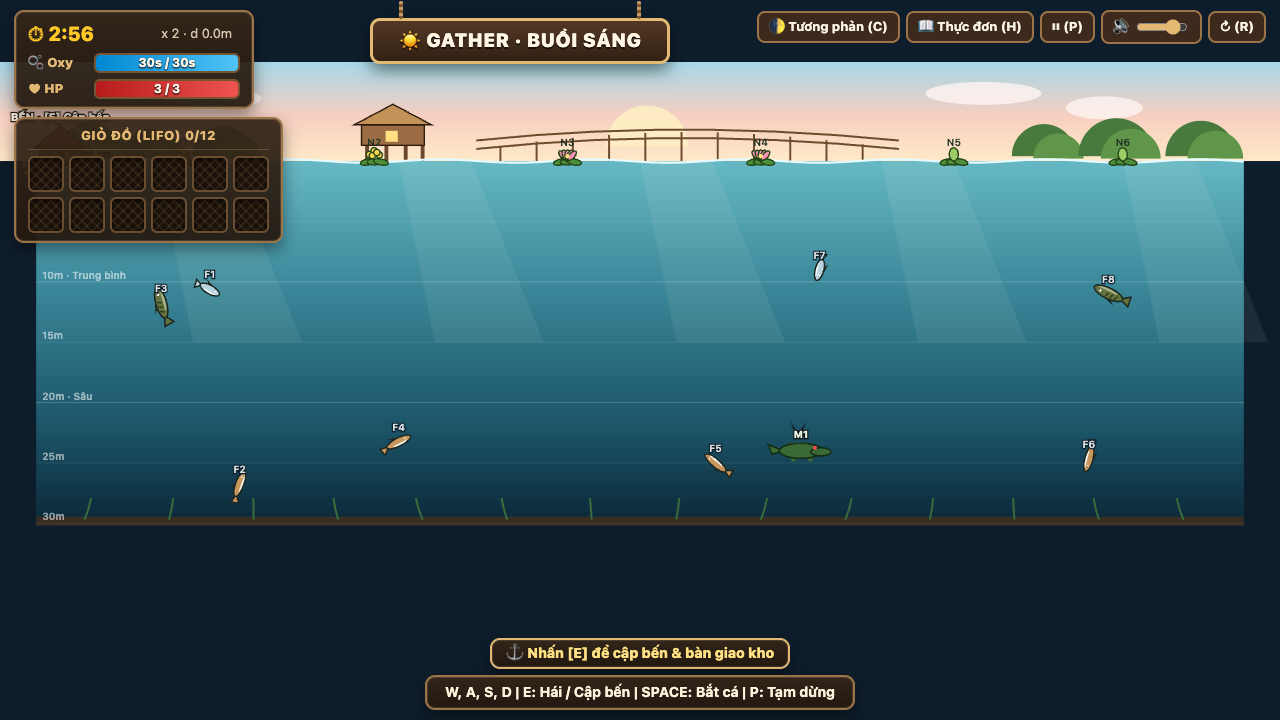
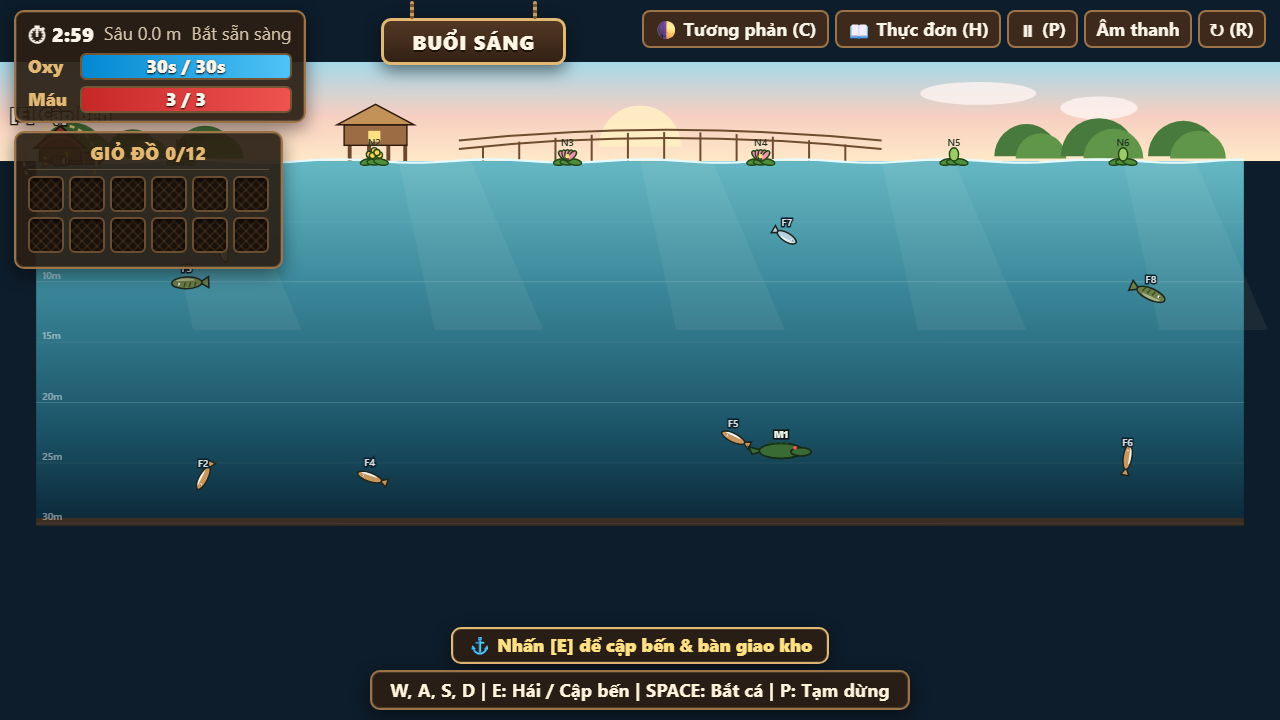
Record Phase 4 benchmark, browser checks and regression evidence

diff --git a/docs/verification/phase-4.md b/docs/verification/phase-4.md
@@ -1,27 +1,20 @@
-# Ma trận truy vết Phase 4 · QA (TV6)
+# Ma trận kiểm chứng Phase 4
 
-> Nguồn: TICKET-04 "Phát hành v1.0.0", Test Contract v1.3. Test: `tests/test_qa_p4.py` (17 test; 5 test leaderboard chỉ chạy khi khai mở rộng), `tests/test_qa_ext.py` (burn, 6 test).
-> Lệnh: `PYTHONPATH=tests:. python3 -m unittest discover -s tests -v`. Kết quả: ✅ đạt · ❌ chưa đạt · 🖐 kiểm tay · — không làm.
-> Bằng chứng đo trên working tree trước commit (contract 1.3): [test-run-qa.txt](../proof/phase-4/test-run-qa.txt) 330 test, OK (5 skip). **Chạy lại toàn bộ lệnh và bench 30 s trên commit gắn tag `phase-4` / Release v1.0.0 rồi thay dòng đầu các file bằng chứng.**
+Yêu cầu lấy từ TICKET-04 và Test Contract v1.3. Các bằng chứng dưới đây thuộc nội dung ứng dụng của bản bàn giao. Manifest giữ gameplay, kho và JSONL của v1.2.
 
-| AC | Yêu cầu (TICKET-04) | Cách kiểm | Bằng chứng | Kết quả |
-|---|---|---|---|---|
-| AC-P4-01 | `contract_version: "1.3"`, `bench_cmd`, `soak_cmd` ở gốc; gameplay/tuning/kho/JSONL theo v1.2 | `test_qa_p4.Manifest` | `game.contract.json` | ✅ |
-| AC-P4-02 | Soak `--seed 7 --days 10`: đúng 5 trường, `days_completed = days = 10`, `crashes = 0`, `results` theo Ngày, `score` đúng công thức, tất định (bỏ `duration_s`) | `test_qa_p4.Soak` | [soak.json](../proof/phase-4/soak.json) | ✅ |
-| AC-P4-03 | Bench `--seed 42 --duration 30`: đúng 5 trường, `avg_fps = frames / measured_s`, `p1_low_fps` 1% khung chậm nhất, `load_ms` | `test_qa_p4.Bench` (3 s) + chạy 30 s | [bench.json](../proof/phase-4/bench.json), [bench-scene.png](../proof/phase-4/bench-scene.png) (khung 1280×720 của cảnh đo) | ✅ |
-| AC-P4-03b | Báo cáo mốc: avg ≥ 60, 1% low ≥ 30, load ≤ 10 s | đọc `bench.json` 30 s | `{"avg_fps":60.002,"p1_low_fps":59.524,"frames":1801,"measured_s":30.016,"load_ms":1471.4}` | ✅ đạt cả 3 mốc (Chrome headless, khóa 60 Hz) |
-| AC-P4-04 | README: ≤ 3 lệnh từ clone sạch, môi trường, điều khiển, lệnh test/headless/bench/soak | `test_qa_p4.ReleaseDocs` + chạy bản sạch (chỉ file theo git) | lệnh 3 README mở máy chủ, `/state` trả `day/gather`; test trong bản sạch OK | ✅ |
-| AC-P4-05 | `CHANGELOG.md` theo từng phase; `CREDITS.md`, `LICENSE` | `test_qa_p4.ReleaseDocs` | `CHANGELOG.md`, `LICENSE` (MIT), `CREDITS.md` | ✅ |
-| AC-P4-06 | Cảnh báo chữ/biểu tượng: thủy quái gần, oxy sắp hết, khách sắp giận; chế độ tương phản cao; chơi thử cả 3 ở chế độ đó | 🖐 `python3 -m chonoi.live --mode day --days 1`, nhấn C | `docs/proof/phase-4/warn-*.png` (cần chụp) | 🖐 đã có trong giao diện (TV5): `Thủy quái!` + viền tím, `Hết hơi!`, `😠 Khách sắp giận!`, nút/phím C; **chưa chụp ảnh chơi thử** |
-| AC-P4-07 | GitHub Release v1.0.0 + bản đóng gói + release notes; tag `phase-4` và Release cùng commit trên `main` | 🖐 trang Release | [release-notes-v1.0.0.md](../release-notes-v1.0.0.md), `git archive` trong đó | 🖐 chờ merge + gắn tag + tạo Release |
-| AC-P4-08 | Regression P1–P3 còn hiệu lực ở v1.3 | toàn bộ `tests/` | [test-run-qa.txt](../proof/phase-4/test-run-qa.txt) | ✅ |
-| AC-P4-09 | Retro rà hành động P2, một lỗi AI và cách xác minh; `docs/members/<handle>.md` đủ người | 🖐 đọc tay | `docs/retro.md`, `docs/members/` | 🖐 mỗi người tự viết |
-| Mở rộng burn | Cháy món: đúng 1.200 tick vẫn bưng, quá thì cháy trước tương tác, giữ lại tươi nhất / `unfulfillable`, theo id bếp | `test_qa_ext.Burn` (6) | `extensions: ["burn"]`, `burn_s: 20` | ✅ |
-| Mở rộng audio | Âm lượng Master/Music/SFX lưu giữa các lần mở (không có mã contract) | 🖐 chỉnh, tải lại trang | ảnh chụp | 🖐 |
-| Mở rộng khác | leaderboard, phụ đề SFX | `test_qa_p4.Leaderboard` (tự bật khi khai) | — | — không làm |
+| AC | Yêu cầu | Kiểm chứng | Kết quả |
+|---|---|---|---|
+| AC-P4-01 | Manifest v1.3 khai `bench_cmd` và `soak_cmd` | `test_qa_p4.Manifest` và `game.contract.json` | Đạt |
+| AC-P4-02 | Soak seed 7, 10 Ngày, 0 crash. Kết quả lặp theo seed khi bỏ thời gian chạy | [Hai lượt soak](../proof/phase-4/soak.txt), [JSON](../proof/phase-4/soak.json) | Đạt |
+| AC-P4-03 | Render cảnh lặn seed 42 ở 1280×720, làm nóng 3 s, đo 30 s và xuất đúng năm trường | `test_qa_p4.Bench`, [JSON đo](../proof/phase-4/bench.json), [cảnh đo](../proof/phase-4/bench-scene.png) | Đạt |
+| AC-P4-03b | Mốc báo cáo avg ≥ 60 FPS, 1% low ≥ 30 FPS, load ≤ 10 s | Bench ở trên | avg 55.15 FPS (dưới mốc) · 1% low 13.75 FPS (dưới mốc) · tải 1.71 s (đạt) (Chrome 157 headless trên Windows) |
+| AC-P4-04 | Mở giao diện từ checkout sạch trong ba lệnh README. Có yêu cầu môi trường, điều khiển, test/headless/bench/soak | `test_qa_p4.ReleaseDocs`, smoke README trên Ubuntu CI, [smoke ZIP](../proof/phase-4/package.txt) | Đạt |
+| AC-P4-05 | CHANGELOG theo phase, ghi chú phát hành, credits và giấy phép | [CHANGELOG](../../CHANGELOG.md), [ghi chú phát hành](../release-notes-v1.0.0.md), [CREDITS](../../CREDITS.md), [MIT](../../LICENSE) | Đạt |
+| AC-P4-06 | Đủ ba cảnh báo có chữ và kiểm ở chế độ tương phản cao | [Chrome và ảnh](../proof/phase-4/web-ui.md) | Đạt |
+| AC-P4-07 | Tag `phase-4` và Release `v1.0.0` cùng commit trên `main`, có ZIP chạy được và notes | [Tag Phase 4](https://github.com/Ama2352/K5-L3B-LAB-Day12-AI-SDLC-Banana/tree/phase-4), [Release](https://github.com/Ama2352/K5-L3B-LAB-Day12-AI-SDLC-Banana/releases/tag/v1.0.0) | Bàn giao sau hạn 3:00 của lab |
+| AC-P4-08 | Hồi quy P1–P3 còn hiệu lực, gồm hai biên độ tươi (29.999 và 30.008), kho khớp và vòng ngày hoàn tất | [Regression](../proof/phase-4/test-run-qa.txt), [bàn giao kho và một ngày headless](../proof/phase-4/handoff.txt) | 332 đạt, 5 bỏ qua có chủ đích |
+| AC-P4-09 | Rà hành động retro P2, ghi lỗi AI đã kiểm và phản tư của mỗi người | [Retro](../retro.md), [đóng góp theo handle](../members/), [nhật ký AI](../ai-usage-log.md), [làm rõ](../clarify.md), [standup](../standup.md) | Có retro và bằng chứng sáu người. Phần tự phản tư của Sang và Quyên còn chờ chính hai bạn bổ sung. |
+| Mở rộng | Cháy món (`burn`), phụ đề SFX | `test_qa_ext.Burn` và [phụ đề lúc tắt âm](../proof/phase-4/web-ui.md) | Đạt |
+| Sáng tạo | Master, Nhạc và Hiệu ứng có thanh riêng và lưu qua tải lại trang | [Kiểm âm lượng](../proof/phase-4/web-ui.md) | Đạt |
 
-## Thay đổi Phase 4 (TV6, theo yêu cầu nhóm)
-- `chonoi/bench.py` (mới) + bộ đo trong `chonoi/web/index.html` (chỉ bật khi `?bench=1`).
-- `game.contract.json`: `1.3`, `bench_cmd`, `soak_cmd` (soak của TV2), `extensions: ["burn"]`, `burn_s: 20`.
-- `chonoi/contract.py`: nhận `burn_s` hữu hạn khi khai `burn` (trước luôn bắt `null` theo Phase 1).
-- README, `CHANGELOG.md` theo phase, `LICENSE`, `docs/release-notes-v1.0.0.md`; `test_qa_p2/p3` chấp nhận `1.3` (TICKET-04: v1.3 giữ gameplay v1.2).
+Lệnh hồi quy là `PYTHONPATH=tests:. python3 -m unittest discover -s tests -v`. Năm test bảng xếp hạng bỏ qua vì manifest chọn `burn` và phụ đề SFX.

diff --git a/docs/proof/phase-4/web-ui.md b/docs/proof/phase-4/web-ui.md
@@ -1,0 +1,22 @@
+# Kiểm giao diện Phase 4
+
+Chrome 157 chạy ở viewport 1280×720 trên Windows. Chạy `python3 -m chonoi.live` với `--mode day --days 1 --seed 42 --scenario docs/proof/phase-4/ui-scenarios/day.json` hoặc `--mode gather --scenario docs/proof/phase-4/ui-scenarios/oxy.json` và `docs/proof/phase-4/ui-scenarios/monster.json` để lặp các ca. Các fixture ở cùng thư mục này chuẩn bị trạng thái để kiểm từng hành vi.
+
+## Vòng ngày và HUD (AC-P2-24)
+
+- Menu có Chơi và Thoát. DayIntro có danh sách nguyên liệu, tự sang gather sau khoảng 4,09 s khi đo từ thao tác bấm Chơi. Lượt riêng dùng phím X để bỏ qua.
+- Kiểm Pause trong gather và Shop. Đồng hồ mô phỏng đứng yên. Tiếp tục và Về menu dùng được.
+- EveningIntro báo 3 nguyên liệu nhập kho và 2 món có thể nấu. DayResult báo 1 khách được phục vụ, 1 khách bỏ đi, thu 72 nghìn, boa 12 nghìn và uy tín giảm 0,3. Sau khi đóng Shop, Summary hiển thị tổng thu 72 nghìn, uy tín 2,7, điểm và Cá lóc nướng trui bán chạy nhất với 1 suất. [Kết quả ngày](day-result.png)
+- Các nút HUD đều có cỡ chữ 18 px và nằm ngoài biển tên cảnh. Kiểm lại chữ chọn món, kiên nhẫn tại bàn, trạng thái bếp, món cầm tay và kho ở ca tối. [HUD gather](gather-hud.png)
+
+## Ba cảnh báo trong chế độ tương phản cao (AC-P4-06)
+
+| Cảnh | Điều kiện kiểm | Kết quả | Ảnh |
+|---|---|---|---|
+| Thủy quái gần | Út Sen ở `[60, 24]`, M1 ở `[66, 24]` | Hiện chữ “Thủy quái!” và viền cảnh báo | [Ảnh thủy quái](warn-monster.png) |
+| Oxy thấp | Út Sen ở `[2, 11]`, còn 85/1.800 tick oxy | Hiện “Oxy sắp hết!” và thanh oxy đổi màu. Tiếp tục tới lúc cạn hiện “Hết hơi!”. | [Ảnh oxy](warn-oxy.png) |
+| Khách sắp giận | Khách tại T2 còn 195/3.600 tick kiên nhẫn | Hiện “Khách sắp giận!” và đổi màu thanh kiên nhẫn | [Ảnh ca tối](warn-angry.png) |
+
+## Âm thanh và phụ đề
+
+Đã kiểm ba mức Master 72%, Nhạc 31% và Hiệu ứng 64%. Nhạc phát bằng Web Audio, mỗi kênh có gain riêng. Tải lại trang giữ ba mức âm lượng. Khi tắt âm toàn bộ, hai sự kiện phục vụ và khách bỏ đi vẫn hiển thị phụ đề. [Ảnh phụ đề lúc tắt âm](sfx-subtitle.png)
